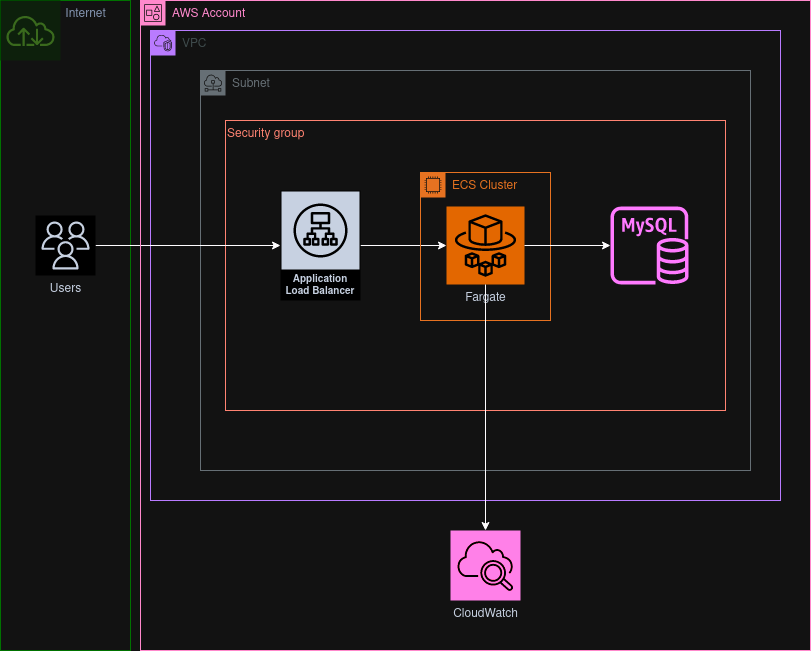
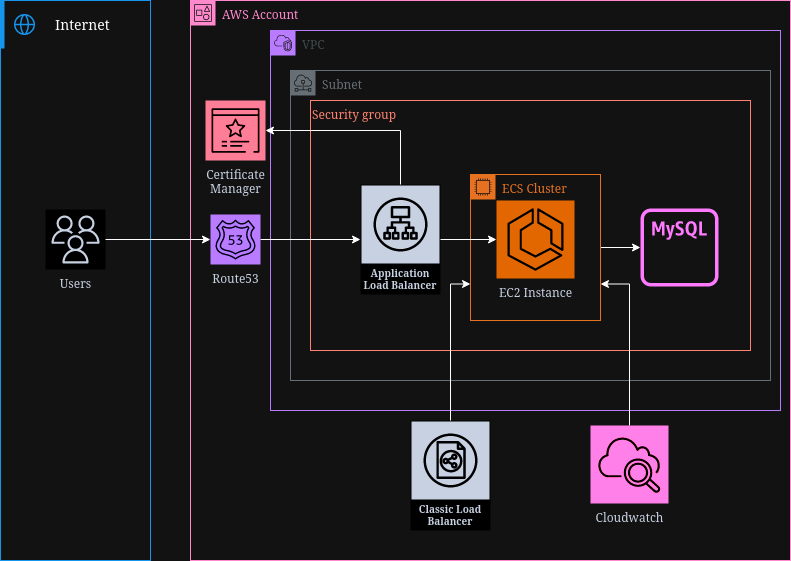
update

diff --git a/main.ts b/main.ts
@@ -10,6 +10,7 @@ import { AutoScalingStack, AutoScalingConfigs } from './lib/stacks/autoscaling-s
 import { AppAutoScalingStack, AppAutoScalingConfigs } from './lib/stacks/application-as-stack';
 import { sgStack } from './lib/stacks/securitygroup-stack';
 import { Route53Stack, RouteConfigs } from './lib/stacks/route53-stack';
+//import { RemoteBackend } from 'cdktf'; // uncomment this line to use Terraform Cloud
 
 const StackProps: BaseStackProps = {
     name: "first-complete",
@@ -79,11 +80,6 @@ const AsgConfig: AutoScalingConfigs = {
 
 new AutoScalingStack(app, "asg-stack", AsgConfig)
 
-/*const InstanceConfig: InstanceConfigs {
-    launchTemplate: {
-        id: launchTemplate.launchTemplate.id
-}*/
-
 const taskDefinition = new taskDefinitionStack(app, "td-stack", DbConfig);
 const lb = new LoadBalancerStack(app, "lb-stack", LbConfig);
 
@@ -128,7 +124,7 @@ new Route53Stack(app, "route53-stack", routeConfig)
 // To deploy using Terraform Cloud comment out the above line
 // And uncomment the below block of lines
 
-/*const stack = new EcsServiceStack(app, "ecs-service-stack", EcsConfig);
+/*const stack = new Route53Stack(app, "route53-stack", routeConfig);
 new RemoteBackend(stack, {
   hostname: "app.terraform.io",
   organization: process.env.CDKTF_ECS_TFC_ORGANIZATION || "",

diff --git a/README.md b/README.md
@@ -3,7 +3,7 @@
 ![ECS Microservices CDKTF-AWS](images/aws.png)
 ## Instructions
 ### This deployment requires the use of user Access Keys.
-To deploy using deploy using Terraform Cloud, uncomment lines 4, 52-58 and 412-419 in main.ts and comment out line 407.
+To deploy using deploy using Terraform Cloud, uncomment lines 13, 127-134 in main.ts and comment out line 122.
 
 Comment out Config credentials in .github/workflows/deployment-workflow.yml
 
@@ -28,7 +28,7 @@ Add CDKTF_ECS_TFC_ORGANIZATION to the env block of CDKTF Deployment in .github/w
 
 ### Verify deployment by:
     1. Follow the deployment at the bmo-iac-cluster on the ECS page.
-    2. Copy the DNS name from the loadbalancer page and visit the site in a new tab
+    2. Visit the FQDN created by the Route53 stack
     
 ### Destroy Application:
     1. Navigate to the Actions tab
